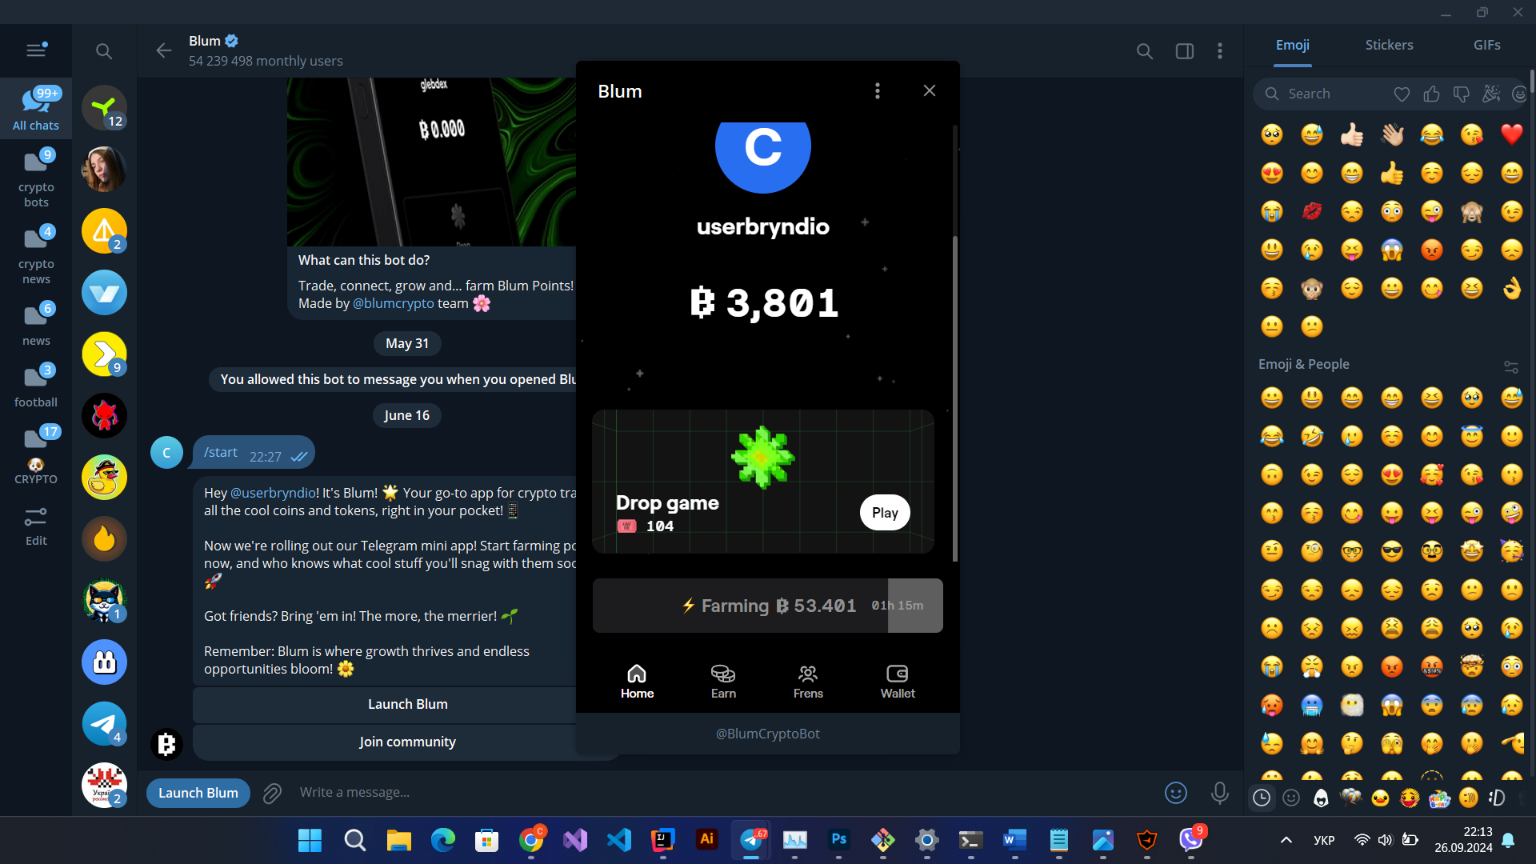
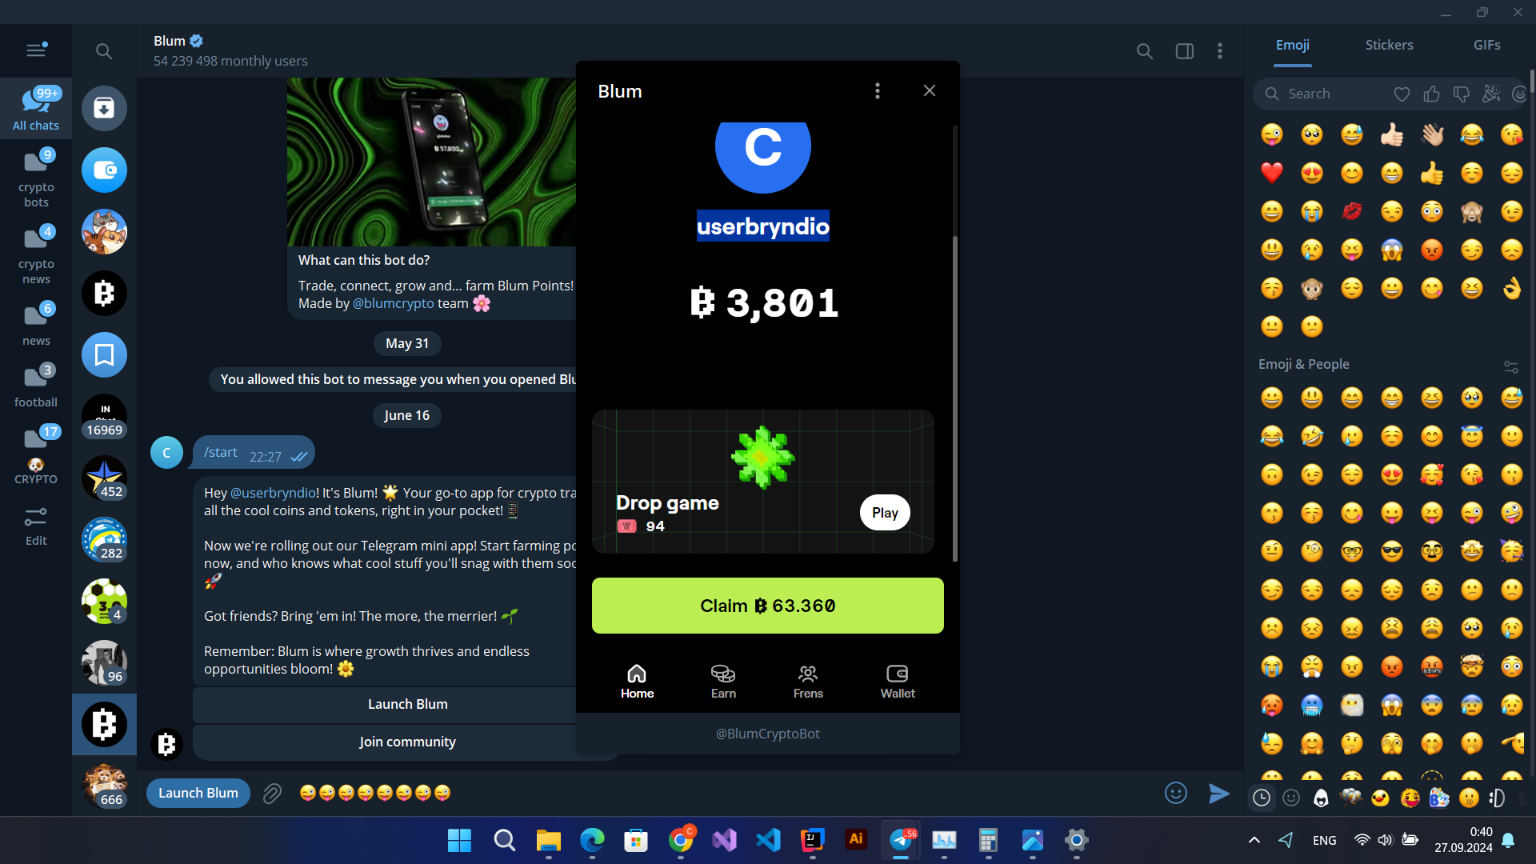
Clicker is almost working. TO-DO: faster recognition and pressing at stars. Screenshot is taking and then the star is below

diff --git a/AutoClicker/blumkiss/src/logic/Logic.java b/AutoClicker/blumkiss/src/logic/Logic.java
@@ -22,10 +22,15 @@ import org.opencv.imgproc.Imgproc;
 import org.opencv.videoio.VideoCapture;
 
 public class Logic {
-    static { System.loadLibrary(Core.NATIVE_LIBRARY_NAME); }
+    static {
+        System.loadLibrary(Core.NATIVE_LIBRARY_NAME);
+    }
+
     static String channel = "blumcrypto";
     static String bot = "BlumCryptoBot";
     static String dataPath = "C:\\Program Files\\Tesseract-OCR\\tessdata";
+    static boolean findPlay = false;
+
 
     public static void main(String[] args) throws IOException,
             AWTException, InterruptedException {
@@ -117,18 +122,14 @@ public class Logic {
             Thread.sleep(1000);
             String runChannel = "cmd /c start tg://resolve?domain=" + channel;
             String runBot = "cmd /c start tg://resolve?domain=" + bot + "&startapp";
-            run.exec(runChannel);
-            Thread.sleep(2000);
             run.exec(runBot);
-            Thread.sleep(10000);
+            Thread.sleep(2500);
 
             BufferedImage screenshot = new Robot().createScreenCapture(
                     new java.awt.Rectangle(java.awt.Toolkit.getDefaultToolkit().getScreenSize())
             );
-            Thread.sleep(2000);
             ImageIO.write(screenshot, "png", new File("findLaunch.png"));
-            Thread.sleep(1000);
-           // run.exec("cmd /c start \"\" \"C:\\Test Clicker\\AutoClicker\\blumkiss\\findLaunch.png\"");
+            // run.exec("cmd /c start \"\" \"C:\\Test Clicker\\AutoClicker\\blumkiss\\findLaunch.png\"");
             Thread.sleep(1000);
             Tesseract tesseract = new Tesseract();
             tesseract.setDatapath(dataPath);
@@ -140,38 +141,35 @@ public class Logic {
             } catch (TesseractException e) {
                 e.printStackTrace();
             }
-                List<Word> words = tesseract.getWords(screenshot, ITessAPI.TessPageIteratorLevel.RIL_WORD);
+            List<Word> words = tesseract.getWords(screenshot, ITessAPI.TessPageIteratorLevel.RIL_WORD);
 
-                for (Word word : words) {
-                    if (word.getText().equalsIgnoreCase("Launch")) {
-                        java.awt.Rectangle boundingBox = word.getBoundingBox();
-                        int x = boundingBox.x;
-                        int y = boundingBox.y;
-                        int width = boundingBox.width;
-                        int height = boundingBox.height;
+            for (Word word : words) {
+                if (word.getText().equalsIgnoreCase("Launch")) {
+                    java.awt.Rectangle boundingBox = word.getBoundingBox();
+                    int x = boundingBox.x;
+                    int y = boundingBox.y;
+                    int width = boundingBox.width;
+                    int height = boundingBox.height;
 
-                        System.out.println("Found 'Launch bot' at: " + x + ", " + y);
-                        System.out.println("Bounding box size: " + width + "x" + height);
-                        robot.mouseMove(x+5, y+8);
-                        Thread.sleep(2000);
-                        robot.mousePress(InputEvent.BUTTON1_DOWN_MASK);
-                        robot.mouseRelease(InputEvent.BUTTON1_DOWN_MASK);
-                        break;
-                    }
-                    else{
-                        System.out.println("Cant find needed phrase. Found: " + word.getText());
-                    }
+                    System.out.println("Found 'Launch bot' at: " + x + ", " + y);
+                    System.out.println("Bounding box size: " + width + "x" + height);
+                    robot.mouseMove(x + 5, y + 8);
+                    Thread.sleep(2000);
+                    robot.mousePress(InputEvent.BUTTON1_DOWN_MASK);
+                    robot.mouseRelease(InputEvent.BUTTON1_DOWN_MASK);
+                    break;
+                } else {
+                    System.out.println("Cant find needed phrase. Found: " + word.getText());
                 }
+            }
 
 
-                //second screenshot
-                Thread.sleep(10000);
+            //second screenshot
+            Thread.sleep(2000);
             BufferedImage screenshotBot = new Robot().createScreenCapture(
                     new java.awt.Rectangle(java.awt.Toolkit.getDefaultToolkit().getScreenSize())
             );
-            Thread.sleep(2000);
             ImageIO.write(screenshotBot, "png", new File("findUsername.png"));
-            Thread.sleep(1000);
             // run.exec("cmd /c start \"\" \"C:\\Test Clicker\\AutoClicker\\blumkiss\\findLaunch.png\"");
             Thread.sleep(1000);
             File imageFileBot = new File("findUsername.png");
@@ -193,12 +191,13 @@ public class Logic {
 
                     System.out.println("Found 'Launch bot' at: " + x + ", " + y);
                     System.out.println("Bounding box size: " + width + "x" + height);
-                    robot.mouseMove(x+5, y+8);
-                    Thread.sleep(2000);
+                    robot.mouseMove(x + 5, y + 8);
+                    Thread.sleep(500);
                     robot.mouseWheel(50);
+                    robot.mousePress(InputEvent.BUTTON1_DOWN_MASK);
+                    robot.mousePress(InputEvent.BUTTON1_DOWN_MASK);
                     break;
-                }
-                else{
+                } else {
                     System.out.println("Cant find user phrase. Found: " + worda.getText());
                 }
             }
@@ -230,17 +229,17 @@ public class Logic {
                     int y = boundingBoxPlay.y;
                     int width = boundingBoxPlay.width;
                     int height = boundingBoxPlay.height;
-
+                    findPlay = true;
                     System.out.println("Found 'Launch bot' at: " + x + ", " + y);
                     System.out.println("Bounding box size: " + width + "x" + height);
-                    robot.mouseMove(x+236, y+10);
+                    robot.mouseMove(x + 236, y + 10);
                     Thread.sleep(2000);
                     robot.mousePress(InputEvent.BUTTON1_DOWN_MASK);
                     robot.mouseRelease(InputEvent.BUTTON1_DOWN_MASK);
                     break;
-                }
-                else{
+                } else {
                     System.out.println("Cant find play phrase. Found: " + wordw.getText());
+                    findPlay = false;
                 }
             }
 
@@ -248,66 +247,62 @@ public class Logic {
             e.printStackTrace();
         }
 
+        if (findPlay) {
+            //now making logic to detect needed items on the game-screen
 
-        //now making logic to detect needed items on the game-screen
+            int x = 717; // Верхня ліва межа по X
+            int y = 82;  // Верхня ліва межа по Y
+            int width = 488; // Ширина вікна
+            int height = 872; // Висота вікна
+            long gameDuration = 30 * 1000;
+            long startTime = System.currentTimeMillis();
 
-        long gameDuration = 30 * 1000;
-        long startTime = System.currentTimeMillis();
-        File masksDirectory = new File("masks");
-        if (!masksDirectory.exists()) {
-            masksDirectory.mkdir(); // Створити папку, якщо не існує
-        }
-        while (System.currentTimeMillis() - startTime < gameDuration) {
-            BufferedImage screenshotGameplay = new Robot().createScreenCapture(
-                    new java.awt.Rectangle(java.awt.Toolkit.getDefaultToolkit().getScreenSize())
-            );
+            robot.mousePress(InputEvent.BUTTON1_DOWN_MASK);
+            robot.mouseRelease(InputEvent.BUTTON1_DOWN_MASK);
+            Thread.sleep(150);
+            while (System.currentTimeMillis() - startTime < gameDuration) {
+                BufferedImage screenshotGameplay = new Robot().createScreenCapture(
+                        new java.awt.Rectangle((int) Math.round(x * 0.8), (int) Math.round(y * 0.8), (int) Math.round(width * 0.8), (int) Math.round(height * 0.8))
+                );
 
-            File outputfile = new File("gameplay.png");
-            ImageIO.write(screenshotGameplay, "png", outputfile);
+                File outputfile = new File("gameplay.png");
+                ImageIO.write(screenshotGameplay, "png", outputfile);
 
-            Mat image = Imgcodecs.imread("gameplay.png");
+                Mat image = Imgcodecs.imread("gameplay.png");
 
-            Mat hsvImage = new Mat();
-            Imgproc.cvtColor(image, hsvImage, Imgproc.COLOR_BGR2HSV);
-            Scalar lowerGreen = new Scalar(35, 100, 100); // Adjust to your green
-            Scalar upperGreen = new Scalar(85, 255, 255);
+                Mat hsvImage = new Mat();
+                Imgproc.cvtColor(image, hsvImage, Imgproc.COLOR_BGR2HSV);
+                Scalar lowerGreen = new Scalar(55, 200, 200); // Adjust to your green
+                Scalar upperGreen = new Scalar(68, 255, 255);
 
-            // Detect green objects (snowflakes)
-            Mat mask = new Mat();
-            Core.inRange(hsvImage, lowerGreen, upperGreen, mask);
+                // Detect green objects (snowflakes)
+                Mat mask = new Mat();
+                Core.inRange(hsvImage, lowerGreen, upperGreen, mask);
 
-            // Find contours of the detected green objects
-            List<MatOfPoint> contours = new java.util.ArrayList<>();
-            Imgproc.findContours(mask, contours, new Mat(), Imgproc.RETR_EXTERNAL, Imgproc.CHAIN_APPROX_SIMPLE);
+                // Find contours of the detected green objects
+                List<MatOfPoint> contours = new java.util.ArrayList<>();
+                Imgproc.findContours(mask, contours, new Mat(), Imgproc.RETR_EXTERNAL, Imgproc.CHAIN_APPROX_SIMPLE);
 
-            int snowflakeCount = 0;
-            for (MatOfPoint contour : contours) {
-                snowflakeCount++;
-                Rect boundingRect = Imgproc.boundingRect(contour);
+                for (MatOfPoint contour : contours) {
+                    Rect boundingRect = Imgproc.boundingRect(contour);
 
-                int centerX = boundingRect.x + boundingRect.width / 2;
-                int centerY = boundingRect.y + boundingRect.height / 2;
+                    int centerX = boundingRect.x + boundingRect.width / 2;
+                    int centerY = boundingRect.y + boundingRect.height / 2;
 
-                robot.mouseMove(centerX, centerY);
-                Thread.sleep(200);
+                    System.out.println("Snowflake found at x, y: " + centerX + ", " + centerY);
 
-                robot.mousePress(InputEvent.BUTTON1_DOWN_MASK);
-                robot.mouseRelease(InputEvent.BUTTON1_DOWN_MASK);
+                    robot.mouseMove(centerX + (int) Math.round(x * 0.8), centerY + (int) Math.round(y * 0.8));
+                    robot.mousePress(InputEvent.BUTTON1_DOWN_MASK);
+                    robot.mouseRelease(InputEvent.BUTTON1_DOWN_MASK);
+                }
 
-                Thread.sleep(500);
-                Mat snowflakeMask = new Mat(mask.size(), CvType.CV_8UC1, new Scalar(0)); // Створити чорну маску
-                Imgproc.drawContours(snowflakeMask, List.of(contour), -1, new Scalar(255), Imgproc.FILLED); // Заповнити контур білим
-
-                // Зберегти маску сніжинки
-                File snowflakeMaskFile = new File(masksDirectory, "snowflake_" + snowflakeCount + ".png");
-                Imgcodecs.imwrite(snowflakeMaskFile.getAbsolutePath(), snowflakeMask);
+                Thread.sleep(100);
             }
 
-            Thread.sleep(1000);
+            System.out.println("Game over: 30 seconds have passed.");
+        } else {
+            System.out.print("Couldnt find play btn. Fix it");
         }
 
-        // Game over after 30 seconds
-        System.out.println("Game over: 30 seconds have passed.");
-        }
-
+    }
 }
